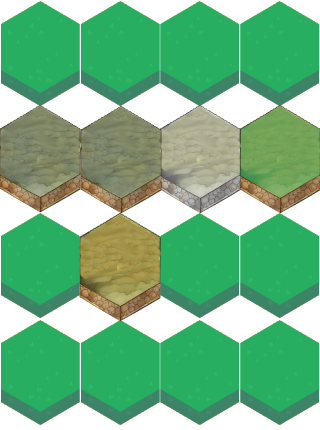
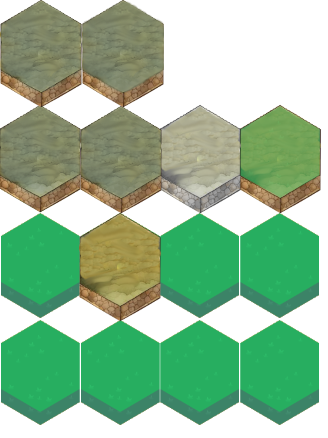
chore: rename files, update graphics

diff --git a/src/battle.ts b/src/battle.ts
@@ -448,16 +448,6 @@ export class Battle {
       return;
     }
 
-    // Is this the same as the previous hover cell call? (done at the previous rendering)
-    // If so, don't process it again.
-    // if (this.prevRenderUpdate.hoverOverCell
-    //   && this.prevRenderUpdate.hoverOverCell.x === coords.x
-    //   && this.prevRenderUpdate.hoverOverCell.y === coords.y
-    //   && this.prevRenderUpdate.hoverDirection === optionalDirection
-    // ) {
-    //   return;
-    // }
-
     this.nextRenderUpdate.hoverOverCell = coords;
     this.nextRenderUpdate.hoverDirection = optionalDirection;
     if (this.activeCreatureIndex <= -1) {
@@ -510,22 +500,32 @@ export class Battle {
     this.nextRenderUpdate.enemyReachableCells = true;
     this.nextRenderUpdate.hoverEnemyIndex = targetCreature.indexInArmy;
     this.nextRenderUpdate.somethingChanged = true;
+    if (activeCreature.stats.remaining_attacks <= 0) {
+      return;
+    }
 
     // Hover over on an enemy unit
     if (activeCreature.stats.is_ranged && !meleePreference) {
-      // The unit is ranged, the user WANTS to attack, but should also check if the ranged unit is engaged in melee.
+
       // ---- RANGED ATTACK ----
       // Attacker is ranged, check if the target is in range
       const target = this.unitRangeData.find((element) => element.coords.x === coords.x && element.coords.y === coords.y);
       if (!target) {
         return;
       }
-
-      this.nextRenderUpdate.hoverPath = [];
-      this.nextRenderUpdate.hoverOverCell = coords;
-      this.nextRenderUpdate.cursorHint = "attack_ranged";
-      this.nextRenderUpdate.somethingChanged = true;
-      return;
+      // The unit is ranged, the user WANTS to attack in a ranged mode, but should also check if the ranged unit is engaged in melee.
+      // activeCreature.position
+      if (-1 == this.hexMap.getNeighbours(activeCreature.position).findIndex(neighbour => neighbour.x === coords.x && neighbour.y === coords.y)) {
+        // The target is not in melee range, so the ranged unit can attack it.
+        this.nextRenderUpdate.hoverPath = [];
+        this.nextRenderUpdate.hoverOverCell = coords;
+        this.nextRenderUpdate.cursorHint = "attack_ranged";
+        this.nextRenderUpdate.somethingChanged = true;
+        return;
+      }
+      // (else)
+      console.log("The target is in melee range, so the ranged unit cannot attack it with a ranged attack.");
+      // Continue with melee attack handling
     }
 
     // ---- MELEE ATTACK ----

diff --git a/src/app.ts b/src/app.ts
@@ -223,12 +223,12 @@ export class HexesApp {
     // this.terrainTexture = await Assets.load('terrain1background.png');
     this.terrainTexture = await Assets.load('stars.jpg');
 
-    this.hexagonSheet = await Assets.load('hexesspritesheet2.json');
+    this.hexagonSheet = await Assets.load('hexagon_selections.json');
     if (!this.hexagonSheet) {
       console.error('Failed to load the hexes spritesheet');
     }
 
-    this.terrainSheet = await Assets.load('terrainspritesheet.json');
+    this.terrainSheet = await Assets.load('hex_terrain.json');
     if (!this.terrainSheet) {
       console.error('Failed to load the terrain spritesheet');
     }
@@ -446,7 +446,7 @@ export class HexesApp {
         };
 
         // get a random value between 1 and 5
-        let randomValue = 3; //Math.floor(Math.random() * 2) + 3;
+        let randomValue = 2; //Math.floor(Math.random() * 2) + 3;
         let terrainSprite = new Sprite(this.terrainSheet?.textures[`grass_${randomValue}.png`]);
         terrainSprite.position.copyFrom(hexCoord);
         this.hexTerrainContainer.addChild(terrainSprite);
